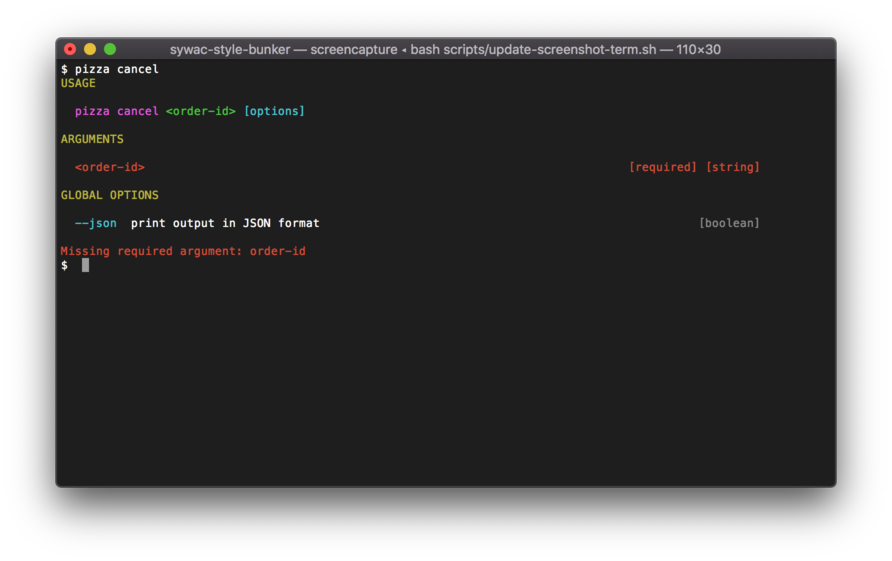
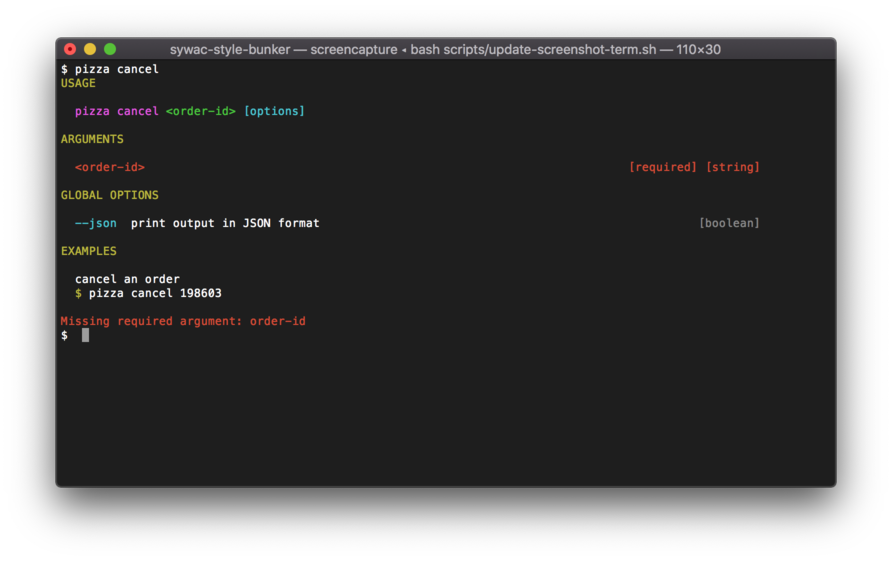
:art: Include EXAMPLES in screenshot

Changed region(s): [[0.0605, 0.4242, 0.333, 0.6061]]

diff --git a/sample-app.js b/sample-app.js
@@ -15,6 +15,9 @@ sywac
   .command({
     flags: 'cancel <order-id>',
     desc: 'cancel an existing order',
+    setup: sywac => {
+      sywac.example('$0 198603', { desc: 'cancel an order' });
+    },
     run: argv => {
       console.log(1);
     }
